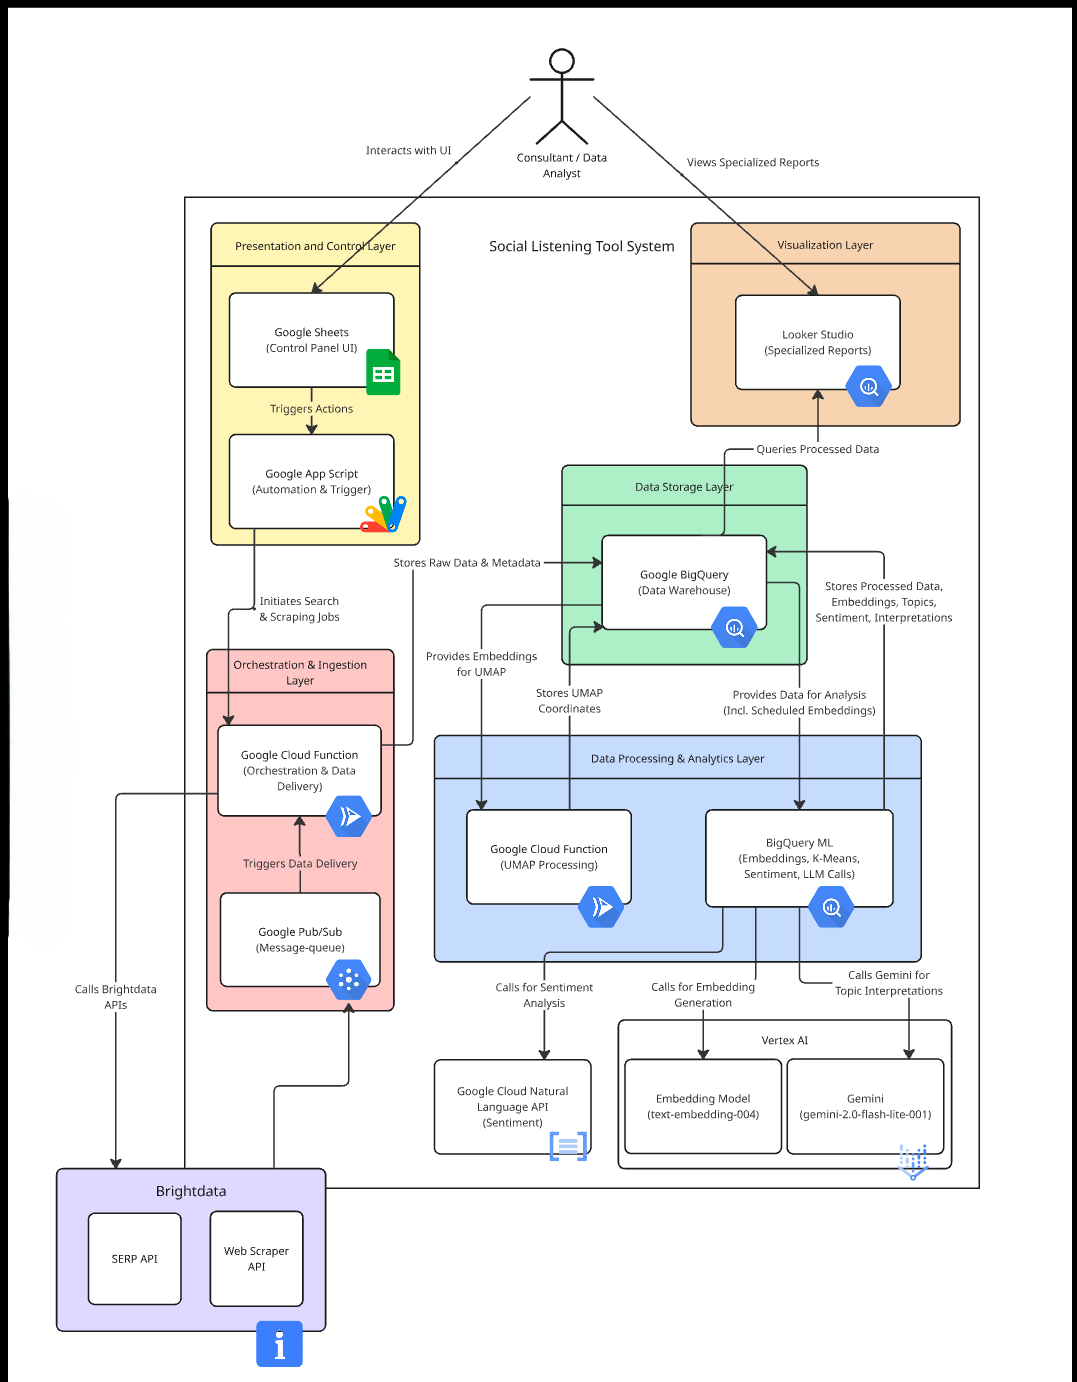
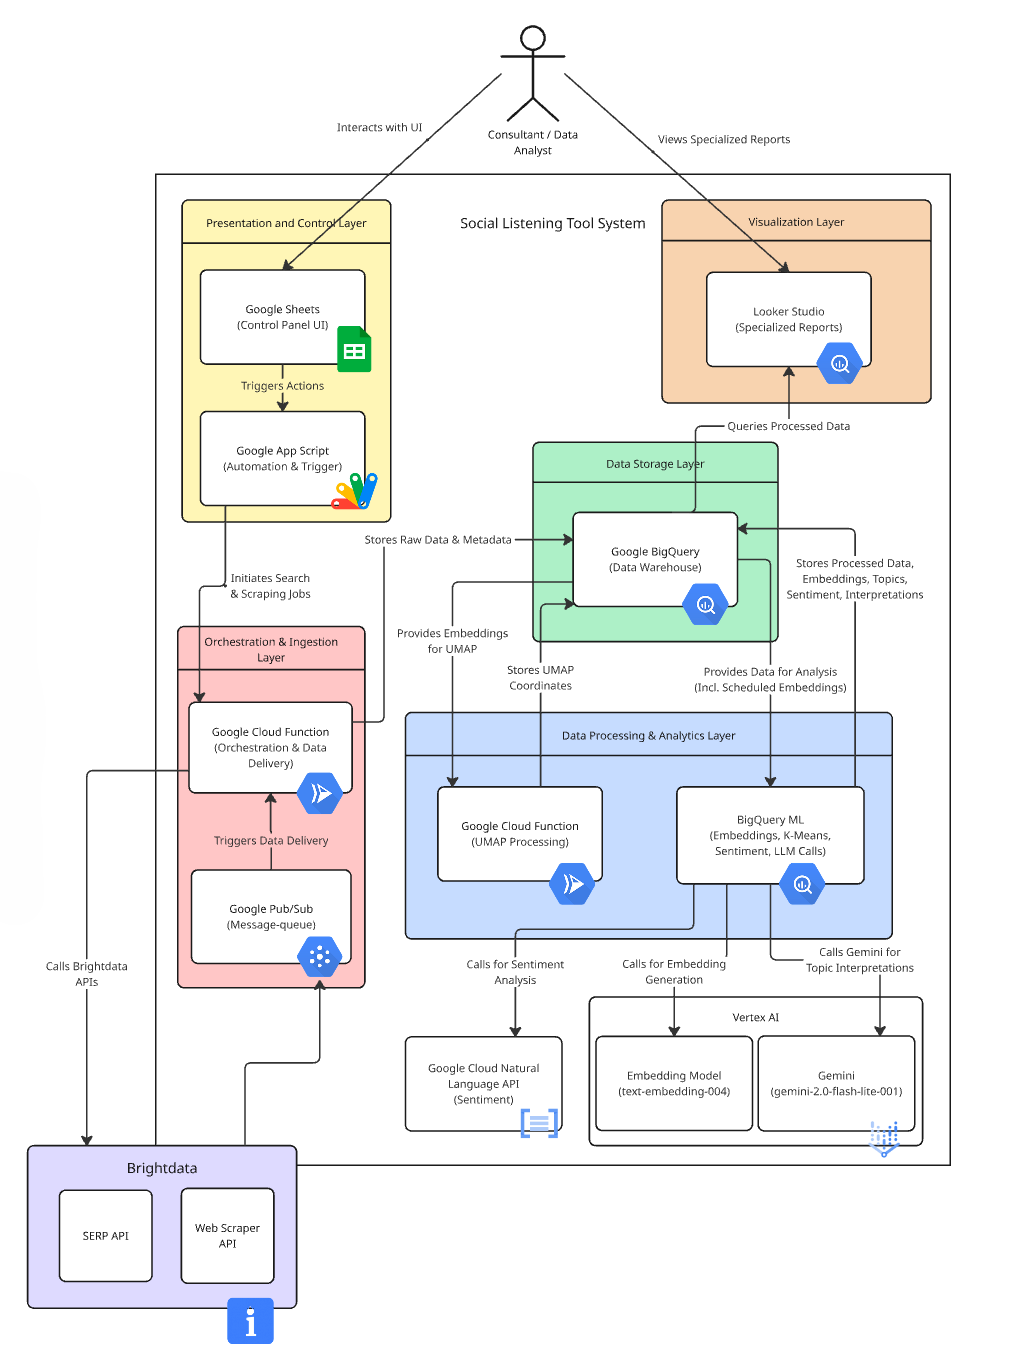
inserted data engineering module section and slt diagrams

diff --git a/src/pages/projects/slt.md b/src/pages/projects/slt.md
@@ -100,6 +100,10 @@ To make the platform scalable, cost-effective, and user-friendly, I broke it int
 
 ![System Architecture](../../assets/projects/slt/slt_system_architecture.png)
 
+BrightData delivers raw Reddit and Quora payloads; Apps Script and Cloud Functions orchestrate loads into BigQuery, where SQL merges and
+cleansing produce a single analysis-ready view for embeddings, clustering, and reporting—so downstream jobs never fork on inconsistent schemas.
+
+![Data integration: Reddit and Quora unified in BigQuery](../../assets/data_integration_social.png)
 
 ---
 
@@ -126,6 +130,18 @@ I focused on making the tool genuinely useful and accessible for consultants:
     - LLM-generated topic summaries
 - Each analysis run produces a unique, shareable report tailored to the client's needs
 - The workflow enables consultants to go from question to insight with minimal technical friction
+
+The reporting layer ties curated BigQuery tables to charts that show how raw posts roll up into topics, sentiment, and run-level metadata—so
+consultants can validate the pipeline without opening SQL.
+
+![Looker dashboard: schema context, topic map, sentiment, run summary](../../assets/dashboard_development_social_listening.png)
+
+For exec-facing reviews, slide-style summaries recap the same signals in a familiar deck format, and a single narrative diagram explains how
+mobile conversations flow into storage, modelling, and charts.
+
+![Slide mockup overview](../../assets/social-listening-tool-slides-mockup.png)
+
+![End-to-end social listening story: capture, table, charts](../../assets/social_listening_diagram.png)
 
 ---
 